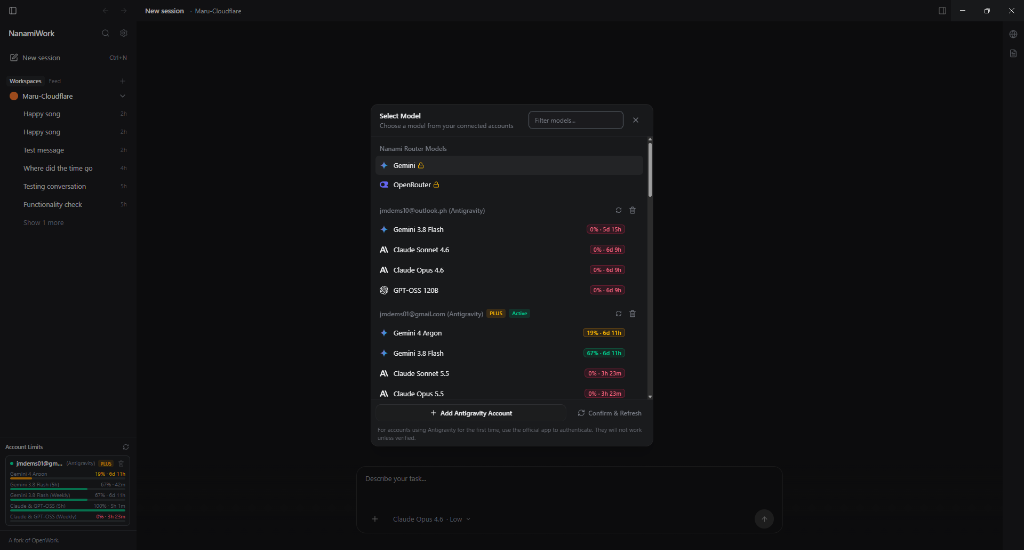
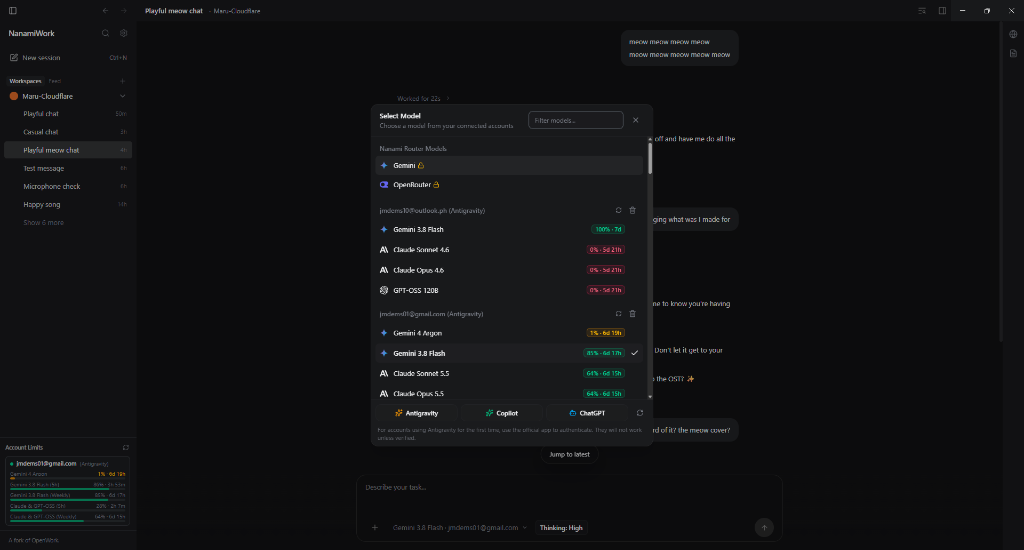
feat(composer): attachment rail above input, copilot vision, and updated preview screenshot

diff --git a/apps/app/src/react-app/domains/session/surface/composer/composer.tsx b/apps/app/src/react-app/domains/session/surface/composer/composer.tsx
@@ -2,7 +2,7 @@
 import { memo, useCallback, useEffect, useMemo, useRef, useState, type ReactNode } from "react";
 import { flushSync } from "react-dom";
 import type { Agent } from "@opencode-ai/sdk/v2/client";
-import { Cloud, Monitor, Check, ChevronDown, FileText, RefreshCw, Terminal, Zap } from "lucide-react";
+import { Cloud, Monitor, Check, ChevronDown, FileText, RefreshCw, Terminal, Zap, X } from "lucide-react";
 import { ComposerSendButton } from "./composer-send-button";
 import fuzzysort from "fuzzysort";
 import { toast } from "@/components/ui/sonner";
@@ -1443,14 +1443,62 @@ export const ReactSessionComposer = memo(function ReactSessionComposer(props: Co
             </div>
           ) : null}
 
-          <div className="px-4 pt-3 pb-2">
+          {/* Attachment rail above the text editor */}
+          {props.attachments && props.attachments.length > 0 ? (
+            <div className="flex flex-wrap items-center gap-2 px-4 pt-3 pb-1" data-testid="composer-attachments-bar">
+              {props.attachments.map((attachment) => {
+                const isImg = isImageAttachment(attachment);
+                return (
+                  <div
+                    key={attachment.id}
+                    className="group relative flex items-center gap-2 rounded-xl border border-border/70 bg-muted/40 p-1.5 pr-2.5 text-xs text-foreground shadow-xs transition-colors hover:border-border"
+                  >
+                    {isImg && attachment.previewUrl ? (
+                      <img
+                        src={attachment.previewUrl}
+                        alt={attachment.name}
+                        className="size-10 rounded-lg object-cover cursor-pointer hover:opacity-90"
+                        onClick={() => setExpandedAttachmentId(attachment.id)}
+                      />
+                    ) : (
+                      <div className="flex size-10 items-center justify-center rounded-lg bg-muted text-muted-foreground">
+                        <FileText className="size-5" />
+                      </div>
+                    )}
+                    <div className="flex flex-col min-w-0 max-w-[140px]">
+                      <span className="truncate font-medium text-xs leading-4" title={attachment.name}>
+                        {attachment.name}
+                      </span>
+                      <span className="text-[10px] text-muted-foreground">
+                        {isImg ? "Image" : "File"}
+                      </span>
+                    </div>
+                    <button
+                      type="button"
+                      onClick={(e) => {
+                        e.preventDefault();
+                        e.stopPropagation();
+                        props.onRemoveAttachment?.(attachment.id);
+                      }}
+                      className="ml-1 rounded-full p-1 text-muted-foreground hover:bg-destructive/15 hover:text-destructive cursor-pointer"
+                      title="Remove attachment"
+                    >
+                      <X className="size-3.5" />
+                    </button>
+                  </div>
+                );
+              })}
+            </div>
+          ) : null}
+
+          <div className="px-4 pt-2.5 pb-2">
             {/* Editor */}
             <LexicalPromptEditor
               ref={editorRef}
               value={props.draft}
               mentions={props.mentions}
               pastedText={pastedTextTokens}
-              attachments={attachmentTokens}
+              attachments={[]}
               submitDisabled={props.disabled}
               placeholder={t("composer.placeholder")}
               onChange={nativeDictationEnabled ? dictation.edit : props.onDraftChange}

diff --git a/apps/server/src/opencode-plugins/openwork-gateway-quota.ts b/apps/server/src/opencode-plugins/openwork-gateway-quota.ts
@@ -142,10 +142,20 @@ export const OpenWorkGatewayQuota = async () => ({
                   tool_call: true,
                   attachment: true,
                   limit: { context: 128000, output: 16384 },
-                  capabilities: {
-                    tools: true,
+                  modalities: {
                     input: ["text", "image"],
                     output: ["text"],
+                  },
+                  capabilities: {
+                    tools: true,
+                    attachment: true,
+                    input: {
+                      text: true,
+                      image: true,
+                    },
+                    output: {
+                      text: true,
+                    },
                   },
                 },
               },
